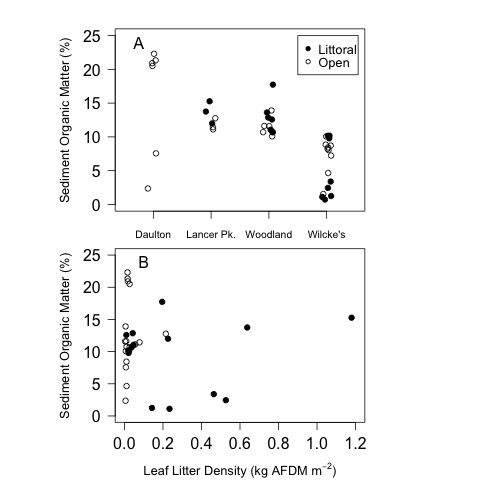
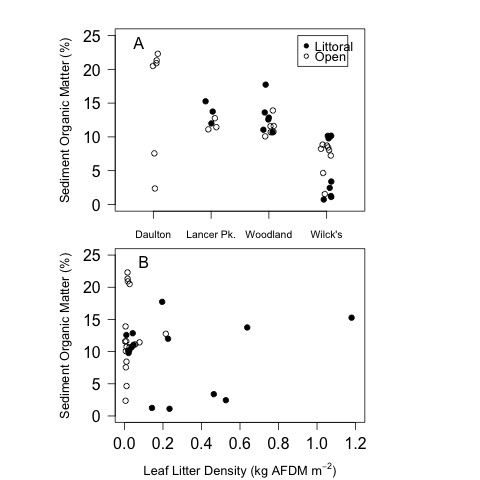
calculated means of CPOM AFDM and prop sed OM for each lake and analyzed wo pseudoreplicaton

diff --git a/lab_notebook/analysis/CPOM_survey_2013_analysis.md b/lab_notebook/analysis/CPOM_survey_2013_analysis.md
@@ -514,7 +514,7 @@ F-statistic: 0.1371 on 1 and 30 DF,  p-value: 0.7138
     plot(sed.propOM * 100 ~ jitter(as.numeric(as.factor(lake)), 0.5), data = survey, subset = location == "littoral", pch = 19, axes = F, ylab = "Sediment Organic Matter (%)", xlab = " ", ylim = c(0, 25), xlim = c(0.5, 4.5), cex.lab = 0.8)
     points(sed.propOM * 100 ~ jitter(as.numeric(as.factor(lake)), 0.5), data = survey, subset = location == "open", pch = 1)
     axis(2)
-    axis(1, c("Daulton", "Lancer Pk.", "Woodland", "Wilcke's"), at = c(1, 2, 3, 4), cex.axis = 0.65)
+    axis(1, c("Daulton", "Lancer Pk.", "Woodland", "Wilck's"), at = c(1, 2, 3, 4), cex.axis = 0.65)
     box()
     legend(3.5, 25, c("Littoral", "Open"), pch = c(19, 1), cex = 0.8)
     text(0.75, 24, "A", cex = 1)
@@ -529,3 +529,63 @@ F-statistic: 0.1371 on 1 and 30 DF,  p-value: 0.7138
     dev.off()
 
 ![LOI Survey](../output/plots/LOI_survey.jpg)
+
+# Reanalysis of the data in response to comments on from reviewers 
+
+Following the review of the manuscript for Aquatic Ecology, I am redoing the analysis to eliminate the pseudoreplication in the comparison of the ponds.
+
+## Average the CPOM AFDM by lake per sampling date
+
+## Create variables of the mean littoral and open CPOM AFDM in each lake
+    littoral.AFDM <- as.numeric(tapply(survey$CPOM.AFDM[survey$lake != "WL" & survey$location == "littoral"], survey$lake[survey$lake != "WL" & survey$location == "littoral"], mean, na.rm = T))
+    
+    open.AFDM <- as.numeric(tapply(survey$CPOM.AFDM[survey$lake != "WL" & survey$location == "open"], survey$lake[survey$lake != "WL" & survey$location == "open"], mean, na.rm = T))
+    
+## Create variables of the mean littoral and open perc sediment OM in each lake
+    littoral.sed.propOM <- as.numeric(tapply(survey$sed.propOM[survey$lake != "WL" & survey$location == "littoral"], survey$lake[survey$lake != "WL" & survey$location == "littoral"], mean, na.rm = T))
+    
+    open.sed.propOM <- as.numeric(tapply(survey$sed.propOM[survey$lake != "WL" & survey$location == "open"], survey$lake[survey$lake != "WL" & survey$location == "open"], mean, na.rm = T))
+
+## Create a data.frame for the analysis
+
+    lake <- rep(c("DP", "LPP", "WC"), 2)
+    location <- c(rep("littoral", 3), rep("open", 3))
+    julian <- rep(c(133, 79, 134), 2)
+    AFDM <- c(littoral.AFDM, open.AFDM)
+    sed.propOM <- c(littoral.sed.propOM, open.sed.propOM)
+
+    survey.mean <- data.frame(lake, location, julian, AFDM, sed.propOM)
+    
+## Analyze the difference between the open and littoral habitats
+
+In these models I used location as the main factor and lake as a blocking factor and julian date as a covariate.
+
+    anova(lm(AFDM ~ location + julian + lake, data = survey.mean))
+    
+~~~~
+
+Analysis of Variance Table
+
+Response: AFDM
+          Df Sum Sq Mean Sq F value Pr(>F)
+location   1 147766  147766  4.5695 0.1660
+julian     1 114897  114897  3.5530 0.2001
+lake       1  17296   17296  0.5348 0.5407
+Residuals  2  64675   32338            
+
+~~~~
+
+    anova(lm(sed.propOM ~ location + julian + lake, data = survey.mean))
+
+~~~~
+
+Analysis of Variance Table
+
+Response: sed.propOM
+          Df     Sum Sq    Mean Sq  F value  Pr(>F)  
+location   1 0.00001576 0.00001576   9.9003 0.19590  
+julian     1 0.00006950 0.00006950  43.6523 0.09563 .
+lake       1 0.00113923 0.00113923 715.5099 0.02379 *
+Residuals  1 0.00000159 0.00000159    
+
+~~~~
